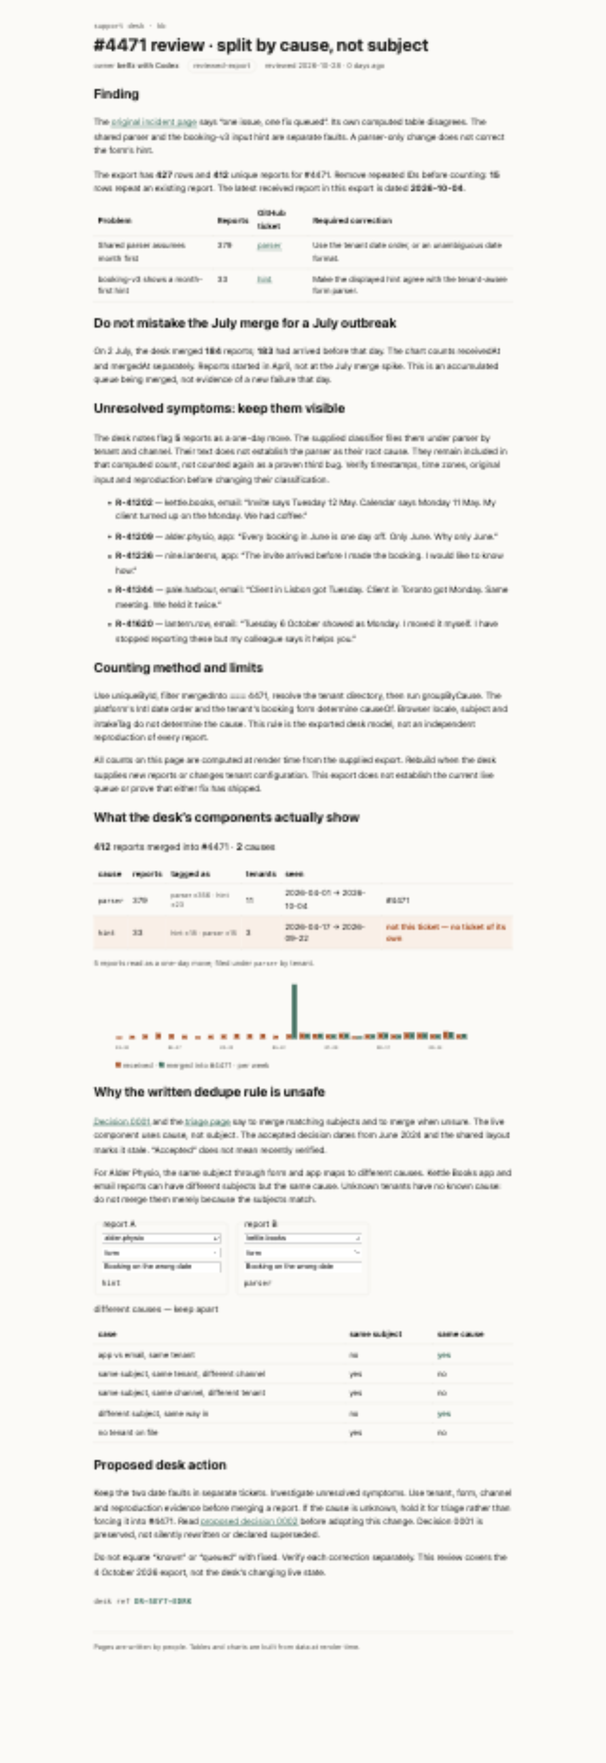
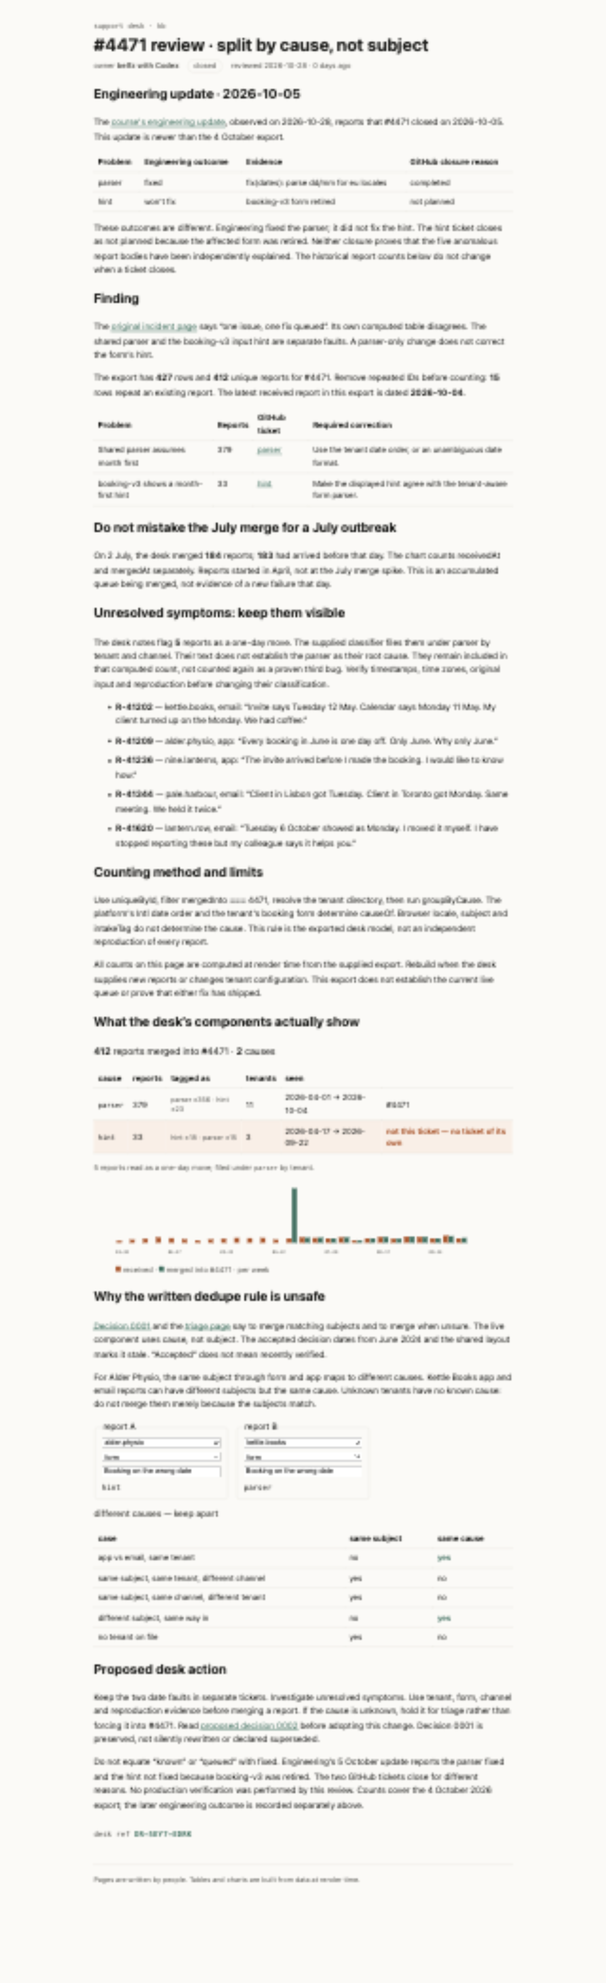
Record engineering outcomes and distinct issue closure reasons

Changed region(s): [[0.1562, 0.0, 0.8438, 0.9656]]

diff --git a/rendered/kb/incidents/4471-review/index.html b/rendered/kb/incidents/4471-review/index.html
@@ -1,6 +1,6 @@
 <!doctype html><html lang="en"><head><meta charset="utf-8"><meta name="viewport" content="width=device-width,initial-scale=1"><!--e2jw2j--><!----><title>#4471 review · split by cause, not subject · support kb</title><style id="svelte-e2jw2j">:root {--bg: #fbfaf7;--fg: #1d1d1b;--muted: #6b6a66;--line: #e3e0d8;--accent: #2f6f5e;--warn: #b4501f;--warn-bg: #fbeee6;--note-bg: #eef5f2;--mono: ui-monospace, 'Cascadia Code', Menlo, monospace;}
   @media (prefers-color-scheme: dark) {:root {--bg: #171716;--fg: #ecebe6;--muted: #9c9a93;--line: #34332f;--accent: #6fbfa6;--warn: #f0905d;--warn-bg: #3a2418;--note-bg: #1d2c27;}
-  }body {margin:0;background:var(--bg);color:var(--fg);font:16px/1.6 system-ui, sans-serif;}.kb table {border-collapse:collapse;width:100%;margin:1rem 0;font-size:0.92rem;}.kb th, .kb td {border-bottom:1px solid var(--line);padding:0.35rem 0.5rem;text-align:left;}.kb code {font-family:var(--mono);font-size:0.88em;}.kb a {color:var(--accent);}.kb.svelte-e2jw2j {max-width:760px;margin:0 auto;padding:2rem 16px 4rem;}.crumb.svelte-e2jw2j {font:0.8rem var(--mono);text-decoration:none;color:var(--muted);}h1.svelte-e2jw2j {margin:0.25rem 0 0.5rem;line-height:1.2;}.meta.svelte-e2jw2j {display:flex;flex-wrap:wrap;gap:0.5rem 1rem;color:var(--muted);font-size:0.85rem;margin:0;}.status.svelte-e2jw2j {border:1px solid var(--line);border-radius:99px;padding:0 0.6rem;}.stale.svelte-e2jw2j {color:var(--warn);font-weight:600;}.banner.svelte-e2jw2j {background:var(--warn-bg);color:var(--warn);padding:0.6rem 1rem;border-radius:6px;}footer.svelte-e2jw2j {margin-top:3rem;color:var(--muted);font-size:0.8rem;border-top:1px solid var(--line);padding-top:1rem;}</style><style id="svelte-1et3mdn">td.svelte-1et3mdn {vertical-align:top;}li.svelte-1et3mdn {margin-bottom:0.65rem;}</style><style id="svelte-12oyimm">.sum.svelte-12oyimm {font-size:1.1rem;}.tags.svelte-12oyimm {color:var(--muted);font-size:0.85em;}.note.svelte-12oyimm {color:var(--muted);font-size:0.85em;}.wrong.svelte-12oyimm td:where(.svelte-12oyimm) {background:var(--warn-bg);}.wrong.svelte-12oyimm td:where(.svelte-12oyimm):last-child {color:var(--warn);font-weight:600;}</style><style id="svelte-18a6qal">svg.svelte-18a6qal {width:100%;max-width:640px;}.in.svelte-18a6qal {fill:var(--warn);}.merged.svelte-18a6qal {fill:var(--accent);}text.svelte-18a6qal {font:8px var(--mono);fill:var(--muted);text-anchor:middle;}figcaption.svelte-18a6qal {color:var(--muted);font-size:0.85rem;}.key.svelte-18a6qal {display:inline-block;width:0.7em;height:0.7em;border-radius:2px;}.key.in.svelte-18a6qal {background:var(--warn);}.key.merged.svelte-18a6qal {background:var(--accent);}</style><style id="svelte-gq0h2h">.try.svelte-gq0h2h {display:grid;grid-template-columns:repeat(auto-fit, minmax(220px, 1fr));gap:0.75rem;margin:1rem 0;}fieldset.svelte-gq0h2h {display:grid;gap:0.4rem;border:1px solid var(--line);border-radius:6px;}.verdict.svelte-gq0h2h {grid-column:1 / -1;margin:0;font-weight:600;color:var(--muted);}.dup.svelte-gq0h2h {color:var(--accent);font-weight:600;}</style><style id="svelte-1280m42">.stamp.svelte-1280m42 {margin:2rem 0 0;font:0.85rem var(--mono);color:var(--muted);}.stamp.svelte-1280m42 b:where(.svelte-1280m42) {color:var(--accent);letter-spacing:0.04em;}.missing.svelte-1280m42 {color:var(--warn);}</style></head><body><!--[--><div class="kb svelte-e2jw2j"><header><a class="crumb svelte-e2jw2j" href="/kb">support desk · kb</a> <h1 class="svelte-e2jw2j">#4471 review · split by cause, not subject</h1> <p class="meta svelte-e2jw2j"><span>owner <b>belfz with Codex</b></span> <span class="status reviewed-export svelte-e2jw2j">reviewed-export</span> <span class="svelte-e2jw2j">reviewed 2026-10-28 · 0 days ago</span></p></header> <!--[-1--><!--]--> <main><h2>Finding</h2> <p>The <a href="/kb/incidents/4471/">original incident page</a> says “one issue, one fix queued”.
+  }body {margin:0;background:var(--bg);color:var(--fg);font:16px/1.6 system-ui, sans-serif;}.kb table {border-collapse:collapse;width:100%;margin:1rem 0;font-size:0.92rem;}.kb th, .kb td {border-bottom:1px solid var(--line);padding:0.35rem 0.5rem;text-align:left;}.kb code {font-family:var(--mono);font-size:0.88em;}.kb a {color:var(--accent);}.kb.svelte-e2jw2j {max-width:760px;margin:0 auto;padding:2rem 16px 4rem;}.crumb.svelte-e2jw2j {font:0.8rem var(--mono);text-decoration:none;color:var(--muted);}h1.svelte-e2jw2j {margin:0.25rem 0 0.5rem;line-height:1.2;}.meta.svelte-e2jw2j {display:flex;flex-wrap:wrap;gap:0.5rem 1rem;color:var(--muted);font-size:0.85rem;margin:0;}.status.svelte-e2jw2j {border:1px solid var(--line);border-radius:99px;padding:0 0.6rem;}.stale.svelte-e2jw2j {color:var(--warn);font-weight:600;}.banner.svelte-e2jw2j {background:var(--warn-bg);color:var(--warn);padding:0.6rem 1rem;border-radius:6px;}footer.svelte-e2jw2j {margin-top:3rem;color:var(--muted);font-size:0.8rem;border-top:1px solid var(--line);padding-top:1rem;}</style><style id="svelte-1et3mdn">td.svelte-1et3mdn {vertical-align:top;}li.svelte-1et3mdn {margin-bottom:0.65rem;}</style><style id="svelte-12oyimm">.sum.svelte-12oyimm {font-size:1.1rem;}.tags.svelte-12oyimm {color:var(--muted);font-size:0.85em;}.note.svelte-12oyimm {color:var(--muted);font-size:0.85em;}.wrong.svelte-12oyimm td:where(.svelte-12oyimm) {background:var(--warn-bg);}.wrong.svelte-12oyimm td:where(.svelte-12oyimm):last-child {color:var(--warn);font-weight:600;}</style><style id="svelte-18a6qal">svg.svelte-18a6qal {width:100%;max-width:640px;}.in.svelte-18a6qal {fill:var(--warn);}.merged.svelte-18a6qal {fill:var(--accent);}text.svelte-18a6qal {font:8px var(--mono);fill:var(--muted);text-anchor:middle;}figcaption.svelte-18a6qal {color:var(--muted);font-size:0.85rem;}.key.svelte-18a6qal {display:inline-block;width:0.7em;height:0.7em;border-radius:2px;}.key.in.svelte-18a6qal {background:var(--warn);}.key.merged.svelte-18a6qal {background:var(--accent);}</style><style id="svelte-gq0h2h">.try.svelte-gq0h2h {display:grid;grid-template-columns:repeat(auto-fit, minmax(220px, 1fr));gap:0.75rem;margin:1rem 0;}fieldset.svelte-gq0h2h {display:grid;gap:0.4rem;border:1px solid var(--line);border-radius:6px;}.verdict.svelte-gq0h2h {grid-column:1 / -1;margin:0;font-weight:600;color:var(--muted);}.dup.svelte-gq0h2h {color:var(--accent);font-weight:600;}</style><style id="svelte-1280m42">.stamp.svelte-1280m42 {margin:2rem 0 0;font:0.85rem var(--mono);color:var(--muted);}.stamp.svelte-1280m42 b:where(.svelte-1280m42) {color:var(--accent);letter-spacing:0.04em;}.missing.svelte-1280m42 {color:var(--warn);}</style></head><body><!--[--><div class="kb svelte-e2jw2j"><header><a class="crumb svelte-e2jw2j" href="/kb">support desk · kb</a> <h1 class="svelte-e2jw2j">#4471 review · split by cause, not subject</h1> <p class="meta svelte-e2jw2j"><span>owner <b>belfz with Codex</b></span> <span class="status closed svelte-e2jw2j">closed</span> <span class="svelte-e2jw2j">reviewed 2026-10-28 · 0 days ago</span></p></header> <!--[-1--><!--]--> <main><h2>Engineering update · 2026-10-05</h2> <p>The <a href="https://hq.mega.dev/challenges/what-it-shows">course's engineering update</a>, observed on 2026-10-28, reports that #4471 closed on 2026-10-05. This update is newer than the 4 October export.</p> <table><thead><tr><th>Problem</th><th>Engineering outcome</th><th>Evidence</th><th>GitHub closure reason</th></tr></thead><tbody><!--[--><tr><td>parser</td><td>fixed</td><td>fix(dates): parse dd/mm for eu locales</td><td>completed</td></tr><tr><td>hint</td><td>won't fix</td><td>booking-v3 form retired</td><td>not planned</td></tr><!--]--></tbody></table> <p>These outcomes are different. Engineering fixed the parser; it did not fix the hint. The hint ticket closes as not planned because the affected form was retired. Neither closure proves that the five anomalous report bodies have been independently explained. The historical report counts below do not change when a ticket closes.</p><!----> <h2>Finding</h2> <p>The <a href="/kb/incidents/4471/">original incident page</a> says “one issue, one fix queued”.
 Its own computed table disagrees. The shared parser and the booking-v3 input hint
 are separate faults. A parser-only change does not correct the form’s hint.</p> <p>The export has <strong>427</strong> rows and <strong>412</strong> unique reports for #4471. Remove repeated IDs before counting: <strong>15</strong> rows repeat an existing report. The latest received report in this export is dated <strong>2026-10-04</strong>.</p> <table><thead><tr><th>Problem</th><th>Reports</th><th>GitHub ticket</th><th>Required correction</th></tr></thead><tbody><!--[--><tr><td class="svelte-1et3mdn">Shared parser assumes month first</td><td class="svelte-1et3mdn">379</td><td class="svelte-1et3mdn"><a href="https://github.com/belfz/mega-s01e03-what-it-shows/issues/1">parser</a></td><td class="svelte-1et3mdn">Use the tenant date order, or an unambiguous date format.</td></tr><tr><td class="svelte-1et3mdn">booking-v3 shows a month-first hint</td><td class="svelte-1et3mdn">33</td><td class="svelte-1et3mdn"><a href="https://github.com/belfz/mega-s01e03-what-it-shows/issues/2">hint</a></td><td class="svelte-1et3mdn">Make the displayed hint agree with the tenant-aware form parser.</td></tr><!--]--></tbody></table> <h2>Do not mistake the July merge for a July outbreak</h2> <p>On 2 July, the desk merged <strong>184</strong> reports; <strong>183</strong> had arrived before that day. The chart counts receivedAt and mergedAt separately. Reports started in April, not at the July merge spike. This is an accumulated queue being merged, not evidence of a new failure that day.</p> <h2>Unresolved symptoms: keep them visible</h2> <p>The desk notes flag <strong>5</strong> reports as a one-day move. The supplied classifier files them under parser by tenant and channel. Their text does not establish the parser as their root cause. They remain included in that computed count, not counted again as a proven third bug. Verify timestamps, time zones, original input and reproduction before changing their classification.</p> <ul><!--[--><li class="svelte-1et3mdn"><strong>R-41202</strong> — kettle.books, email: “Invite says Tuesday 12 May. Calendar says Monday 11 May. My client turned up on the Monday. We had coffee.”</li><li class="svelte-1et3mdn"><strong>R-41209</strong> — alder.physio, app: “Every booking in June is one day off. Only June. Why only June.”</li><li class="svelte-1et3mdn"><strong>R-41236</strong> — nine.lanterns, app: “The invite arrived before I made the booking. I would like to know how.”</li><li class="svelte-1et3mdn"><strong>R-41344</strong> — pale.harbour, email: “Client in Lisbon got Tuesday. Client in Toronto got Monday. Same meeting. We held it twice.”</li><li class="svelte-1et3mdn"><strong>R-41620</strong> — lantern.row, email: “Tuesday 6 October showed as Monday. I moved it myself. I have stopped reporting these but my colleague says it helps you.”</li><!--]--></ul> <h2>Counting method and limits</h2> <p>Use uniqueById, filter mergedInto === 4471, resolve the tenant directory, then run groupByCause. The platform's Intl date order and the tenant's booking form determine causeOf. Browser locale, subject and intakeTag do not determine the cause. This rule is the exported desk model, not an independent reproduction of every report.</p> <p>All counts on this page are computed at render time from the supplied export. Rebuild when the desk supplies new reports or changes tenant configuration. This export does not establish the current live queue or prove that either fix has shipped.</p><!----> <h2>What the desk’s components actually show</h2> <p class="sum svelte-12oyimm"><strong>412</strong> reports merged into #4471 · <strong>2</strong> causes</p> <table><thead><tr><th>cause</th><th>reports</th><th>tagged as</th><th>tenants</th><th>seen</th><th></th></tr></thead><tbody><!--[--><tr class="svelte-12oyimm"><td class="svelte-12oyimm"><code>parser</code></td><td class="svelte-12oyimm">379</td><td class="tags svelte-12oyimm">parser ×356 · hint ×23</td><td class="svelte-12oyimm">11</td><td class="svelte-12oyimm">2026-04-01 → 2026-10-04</td><td class="svelte-12oyimm">#4471</td></tr><tr class="svelte-12oyimm wrong"><td class="svelte-12oyimm"><code>hint</code></td><td class="svelte-12oyimm">33</td><td class="tags svelte-12oyimm">hint ×18 · parser ×15</td><td class="svelte-12oyimm">3</td><td class="svelte-12oyimm">2026-04-17 → 2026-09-22</td><td class="svelte-12oyimm">not this ticket — no ticket of its own</td></tr><!--]--></tbody></table> <!--[--><!--[0--><p class="note svelte-12oyimm">5 reports read as a one-day move; filed under <code>parser</code> by tenant.</p><!--]--><!--[-1--><!--]--><!--]--><!----> <figure><svg viewBox="0 0 648 140" role="img" aria-label="reports received and merged into #4471, per week" class="svelte-18a6qal"><!--[--><rect class="in svelte-18a6qal" x="2" y="106.29629629629629" width="9" height="3.7037037037037033"></rect><rect class="merged svelte-18a6qal" x="12" y="110" width="9" height="0"></rect><!--[0--><text x="12" y="128" class="svelte-18a6qal">03-30</text><!--]--><rect class="in svelte-18a6qal" x="26" y="104.17989417989418" width="9" height="5.82010582010582"></rect><rect class="merged svelte-18a6qal" x="36" y="110" width="9" height="0"></rect><!--[-1--><!--]--><rect class="in svelte-18a6qal" x="50" y="102.5925925925926" width="9" height="7.4074074074074066"></rect><rect class="merged svelte-18a6qal" x="60" y="110" width="9" height="0"></rect><!--[-1--><!--]--><rect class="in svelte-18a6qal" x="74" y="99.94708994708995" width="9" height="10.052910052910052"></rect><rect class="merged svelte-18a6qal" x="84" y="110" width="9" height="0"></rect><!--[-1--><!--]--><rect class="in svelte-18a6qal" x="98" y="101.53439153439153" width="9" height="8.465608465608465"></rect><rect class="merged svelte-18a6qal" x="108" y="110" width="9" height="0"></rect><!--[0--><text x="108" y="128" class="svelte-18a6qal">04-27</text><!--]--><rect class="in svelte-18a6qal" x="122" y="103.65079365079364" width="9" height="6.349206349206349"></rect><rect class="merged svelte-18a6qal" x="132" y="110" width="9" height="0"></rect><!--[-1--><!--]--><rect class="in svelte-18a6qal" x="146" y="105.76719576719577" width="9" height="4.232804232804233"></rect><rect class="merged svelte-18a6qal" x="156" y="110" width="9" height="0"></rect><!--[-1--><!--]--><rect class="in svelte-18a6qal" x="170" y="103.65079365079364" width="9" height="6.349206349206349"></rect><rect class="merged svelte-18a6qal" x="180" y="110" width="9" height="0"></rect><!--[-1--><!--]--><rect class="in svelte-18a6qal" x="194" y="102.5925925925926" width="9" height="7.4074074074074066"></rect><rect class="merged svelte-18a6qal" x="204" y="110" width="9" height="0"></rect><!--[0--><text x="204" y="128" class="svelte-18a6qal">05-25</text><!--]--><rect class="in svelte-18a6qal" x="218" y="101.00529100529101" width="9" height="8.994708994708994"></rect><rect class="merged svelte-18a6qal" x="228" y="110" width="9" height="0"></rect><!--[-1--><!--]--><rect class="in svelte-18a6qal" x="242" y="101.53439153439153" width="9" height="8.465608465608465"></rect><rect class="merged svelte-18a6qal" x="252" y="110" width="9" height="0"></rect><!--[-1--><!--]--><rect class="in svelte-18a6qal" x="266" y="101.00529100529101" width="9" height="8.994708994708994"></rect><rect class="merged svelte-18a6qal" x="276" y="110" width="9" height="0"></rect><!--[-1--><!--]--><rect class="in svelte-18a6qal" x="290" y="104.17989417989418" width="9" height="5.82010582010582"></rect><rect class="merged svelte-18a6qal" x="300" y="110" width="9" height="0"></rect><!--[0--><text x="300" y="128" class="svelte-18a6qal">06-22</text><!--]--><rect class="in svelte-18a6qal" x="314" y="102.06349206349206" width="9" height="7.936507936507936"></rect><rect class="merged svelte-18a6qal" x="324" y="10" width="9" height="100"></rect><!--[-1--><!--]--><rect class="in svelte-18a6qal" x="338" y="99.94708994708995" width="9" height="10.052910052910052"></rect><rect class="merged svelte-18a6qal" x="348" y="100.47619047619048" width="9" height="9.523809523809524"></rect><!--[-1--><!--]--><rect class="in svelte-18a6qal" x="362" y="101.00529100529101" width="9" height="8.994708994708994"></rect><rect class="merged svelte-18a6qal" x="372" y="100.47619047619048" width="9" height="9.523809523809524"></rect><!--[-1--><!--]--><rect class="in svelte-18a6qal" x="386" y="102.06349206349206" width="9" height="7.936507936507936"></rect><rect class="merged svelte-18a6qal" x="396" y="102.06349206349206" width="9" height="7.936507936507936"></rect><!--[0--><text x="396" y="128" class="svelte-18a6qal">07-20</text><!--]--><rect class="in svelte-18a6qal" x="410" y="99.94708994708995" width="9" height="10.052910052910052"></rect><rect class="merged svelte-18a6qal" x="420" y="99.94708994708995" width="9" height="10.052910052910052"></rect><!--[-1--><!--]--><rect class="in svelte-18a6qal" x="434" y="105.76719576719577" width="9" height="4.232804232804233"></rect><rect class="merged svelte-18a6qal" x="444" y="105.76719576719577" width="9" height="4.232804232804233"></rect><!--[-1--><!--]--><rect class="in svelte-18a6qal" x="458" y="102.06349206349206" width="9" height="7.936507936507936"></rect><rect class="merged svelte-18a6qal" x="468" y="102.06349206349206" width="9" height="7.936507936507936"></rect><!--[-1--><!--]--><rect class="in svelte-18a6qal" x="482" y="99.41798941798942" width="9" height="10.582010582010582"></rect><rect class="merged svelte-18a6qal" x="492" y="99.41798941798942" width="9" height="10.582010582010582"></rect><!--[0--><text x="492" y="128" class="svelte-18a6qal">08-17</text><!--]--><rect class="in svelte-18a6qal" x="506" y="102.5925925925926" width="9" height="7.4074074074074066"></rect><rect class="merged svelte-18a6qal" x="516" y="102.5925925925926" width="9" height="7.4074074074074066"></rect><!--[-1--><!--]--><rect class="in svelte-18a6qal" x="530" y="98.88888888888889" width="9" height="11.11111111111111"></rect><rect class="merged svelte-18a6qal" x="540" y="98.88888888888889" width="9" height="11.11111111111111"></rect><!--[-1--><!--]--><rect class="in svelte-18a6qal" x="554" y="99.41798941798942" width="9" height="10.582010582010582"></rect><rect class="merged svelte-18a6qal" x="564" y="99.41798941798942" width="9" height="10.582010582010582"></rect><!--[-1--><!--]--><rect class="in svelte-18a6qal" x="578" y="102.06349206349206" width="9" height="7.936507936507936"></rect><rect class="merged svelte-18a6qal" x="588" y="102.06349206349206" width="9" height="7.936507936507936"></rect><!--[0--><text x="588" y="128" class="svelte-18a6qal">09-14</text><!--]--><rect class="in svelte-18a6qal" x="602" y="96.77248677248677" width="9" height="13.227513227513226"></rect><rect class="merged svelte-18a6qal" x="612" y="97.83068783068784" width="9" height="12.16931216931217"></rect><!--[-1--><!--]--><rect class="in svelte-18a6qal" x="626" y="102.06349206349206" width="9" height="7.936507936507936"></rect><rect class="merged svelte-18a6qal" x="636" y="101.00529100529101" width="9" height="8.994708994708994"></rect><!--[-1--><!--]--><!--]--></svg> <figcaption class="svelte-18a6qal"><span class="key in svelte-18a6qal"></span> received · <span class="key merged svelte-18a6qal"></span> merged into #4471 · per week</figcaption></figure><!----> <h2>Why the written dedupe rule is unsafe</h2> <p><a href="/kb/decisions/0001-dedupe-by-subject/">Decision 0001</a> and the <a href="/kb/triage/dedupe/">triage page</a> say to merge matching subjects and to merge when
 unsure. The live component uses cause, not subject. The accepted decision dates
@@ -11,5 +11,8 @@ Unknown tenants have no known cause: do not merge them merely because the subjec
 Use tenant, form, channel and reproduction evidence before merging a report.
 If the cause is unknown, hold it for triage rather than forcing it into #4471.
 Read <a href="/kb/decisions/0002-dedupe-by-cause/">proposed decision 0002</a> before adopting
-this change. Decision 0001 is preserved, not silently rewritten or declared superseded.</p> <p>Do not equate “known” or “queued” with fixed. Verify each correction separately.
-This review covers the 4 October 2026 export, not the desk’s changing live state.</p> <!--[0--><p class="stamp svelte-1280m42">desk ref <b class="svelte-1280m42">DR-5EY7-EDRK</b></p><!--]--><!----><!----></main> <footer class="svelte-e2jw2j">Pages are written by people. Tables and charts are built from data at render time.</footer></div><!--]--></body></html>
+this change. Decision 0001 is preserved, not silently rewritten or declared superseded.</p> <p>Do not equate “known” or “queued” with fixed. Engineering’s 5 October update
+reports the parser fixed and the hint not fixed because booking-v3 was retired.
+The two GitHub tickets close for different reasons. No production verification
+was performed by this review. Counts cover the 4 October 2026 export; the later
+engineering outcome is recorded separately above.</p> <!--[0--><p class="stamp svelte-1280m42">desk ref <b class="svelte-1280m42">DR-5EY7-EDRK</b></p><!--]--><!----><!----></main> <footer class="svelte-e2jw2j">Pages are written by people. Tables and charts are built from data at render time.</footer></div><!--]--></body></html>

diff --git a/rendered/kb/index.html b/rendered/kb/index.html
@@ -1,4 +1,4 @@
 <!doctype html><html lang="en"><head><meta charset="utf-8"><meta name="viewport" content="width=device-width,initial-scale=1"><!--e2jw2j--><!----><title>Support knowledge base · support kb</title><style id="svelte-e2jw2j">:root {--bg: #fbfaf7;--fg: #1d1d1b;--muted: #6b6a66;--line: #e3e0d8;--accent: #2f6f5e;--warn: #b4501f;--warn-bg: #fbeee6;--note-bg: #eef5f2;--mono: ui-monospace, 'Cascadia Code', Menlo, monospace;}
   @media (prefers-color-scheme: dark) {:root {--bg: #171716;--fg: #ecebe6;--muted: #9c9a93;--line: #34332f;--accent: #6fbfa6;--warn: #f0905d;--warn-bg: #3a2418;--note-bg: #1d2c27;}
-  }body {margin:0;background:var(--bg);color:var(--fg);font:16px/1.6 system-ui, sans-serif;}.kb table {border-collapse:collapse;width:100%;margin:1rem 0;font-size:0.92rem;}.kb th, .kb td {border-bottom:1px solid var(--line);padding:0.35rem 0.5rem;text-align:left;}.kb code {font-family:var(--mono);font-size:0.88em;}.kb a {color:var(--accent);}.kb.svelte-e2jw2j {max-width:760px;margin:0 auto;padding:2rem 16px 4rem;}.crumb.svelte-e2jw2j {font:0.8rem var(--mono);text-decoration:none;color:var(--muted);}h1.svelte-e2jw2j {margin:0.25rem 0 0.5rem;line-height:1.2;}.meta.svelte-e2jw2j {display:flex;flex-wrap:wrap;gap:0.5rem 1rem;color:var(--muted);font-size:0.85rem;margin:0;}.status.svelte-e2jw2j {border:1px solid var(--line);border-radius:99px;padding:0 0.6rem;}.stale.svelte-e2jw2j {color:var(--warn);font-weight:600;}.banner.svelte-e2jw2j {background:var(--warn-bg);color:var(--warn);padding:0.6rem 1rem;border-radius:6px;}footer.svelte-e2jw2j {margin-top:3rem;color:var(--muted);font-size:0.8rem;border-top:1px solid var(--line);padding-top:1rem;}</style><style id="svelte-tbc1ha">.stale.svelte-tbc1ha {color:var(--warn);font-weight:600;}</style></head><body><!--[--><div class="kb svelte-e2jw2j"><header><a class="crumb svelte-e2jw2j" href="/kb">support desk · kb</a> <h1 class="svelte-e2jw2j">Support knowledge base</h1> <p class="meta svelte-e2jw2j"><span>owner <b>support desk</b></span> <span class="status living svelte-e2jw2j">living</span> <span class="svelte-e2jw2j">reviewed 2026-09-28 · 30 days ago</span></p></header> <!--[-1--><!--]--> <main><p>What the support desk knows, kept next to the code that knows it. One desk, every product: <code>sched-prod</code> (calendar invites for about 300k people) and the rest. When something breaks, the reports land here first.</p> <p>Start with <a href="/kb/triage/dedupe">triage</a> if you are new on the desk.</p> <h2>Pages</h2> <table><thead><tr><th>page</th><th>owner</th><th>status</th><th>reviewed</th></tr></thead><tbody><!--[--><tr><td><a href="/kb/decisions/0001-dedupe-by-subject">0001 · Duplicates share a subject line</a></td><td>rune</td><td>accepted</td><td class="svelte-tbc1ha stale">2024-06-11</td></tr><tr><td><a href="/kb/decisions/0002-dedupe-by-cause">0002 · Proposed dedupe by verified cause</a></td><td>belfz with Codex</td><td>proposed</td><td class="svelte-tbc1ha">2026-10-28</td></tr><tr><td><a href="/kb/incidents/4471">#4471 · dates parse mm/dd in eu locales</a></td><td>support desk</td><td>known</td><td class="svelte-tbc1ha">2026-09-30</td></tr><tr><td><a href="/kb/incidents/4471-review">#4471 review · split by cause, not subject</a></td><td>belfz with Codex</td><td>reviewed-export</td><td class="svelte-tbc1ha">2026-10-28</td></tr><tr><td><a href="/kb/triage/dedupe">Triage: duplicate reports</a></td><td>support desk</td><td>accepted</td><td class="svelte-tbc1ha stale">2024-06-11</td></tr><!--]--></tbody></table><!----> <h2>Writing a page</h2> <p>Keep the words here and the logic in <code>src/lib</code>. A number that can be computed should be
+  }body {margin:0;background:var(--bg);color:var(--fg);font:16px/1.6 system-ui, sans-serif;}.kb table {border-collapse:collapse;width:100%;margin:1rem 0;font-size:0.92rem;}.kb th, .kb td {border-bottom:1px solid var(--line);padding:0.35rem 0.5rem;text-align:left;}.kb code {font-family:var(--mono);font-size:0.88em;}.kb a {color:var(--accent);}.kb.svelte-e2jw2j {max-width:760px;margin:0 auto;padding:2rem 16px 4rem;}.crumb.svelte-e2jw2j {font:0.8rem var(--mono);text-decoration:none;color:var(--muted);}h1.svelte-e2jw2j {margin:0.25rem 0 0.5rem;line-height:1.2;}.meta.svelte-e2jw2j {display:flex;flex-wrap:wrap;gap:0.5rem 1rem;color:var(--muted);font-size:0.85rem;margin:0;}.status.svelte-e2jw2j {border:1px solid var(--line);border-radius:99px;padding:0 0.6rem;}.stale.svelte-e2jw2j {color:var(--warn);font-weight:600;}.banner.svelte-e2jw2j {background:var(--warn-bg);color:var(--warn);padding:0.6rem 1rem;border-radius:6px;}footer.svelte-e2jw2j {margin-top:3rem;color:var(--muted);font-size:0.8rem;border-top:1px solid var(--line);padding-top:1rem;}</style><style id="svelte-tbc1ha">.stale.svelte-tbc1ha {color:var(--warn);font-weight:600;}</style></head><body><!--[--><div class="kb svelte-e2jw2j"><header><a class="crumb svelte-e2jw2j" href="/kb">support desk · kb</a> <h1 class="svelte-e2jw2j">Support knowledge base</h1> <p class="meta svelte-e2jw2j"><span>owner <b>support desk</b></span> <span class="status living svelte-e2jw2j">living</span> <span class="svelte-e2jw2j">reviewed 2026-09-28 · 30 days ago</span></p></header> <!--[-1--><!--]--> <main><p>What the support desk knows, kept next to the code that knows it. One desk, every product: <code>sched-prod</code> (calendar invites for about 300k people) and the rest. When something breaks, the reports land here first.</p> <p>Start with <a href="/kb/triage/dedupe">triage</a> if you are new on the desk.</p> <h2>Pages</h2> <table><thead><tr><th>page</th><th>owner</th><th>status</th><th>reviewed</th></tr></thead><tbody><!--[--><tr><td><a href="/kb/decisions/0001-dedupe-by-subject">0001 · Duplicates share a subject line</a></td><td>rune</td><td>accepted</td><td class="svelte-tbc1ha stale">2024-06-11</td></tr><tr><td><a href="/kb/decisions/0002-dedupe-by-cause">0002 · Proposed dedupe by verified cause</a></td><td>belfz with Codex</td><td>proposed</td><td class="svelte-tbc1ha">2026-10-28</td></tr><tr><td><a href="/kb/incidents/4471">#4471 · dates parse mm/dd in eu locales</a></td><td>support desk</td><td>known</td><td class="svelte-tbc1ha">2026-09-30</td></tr><tr><td><a href="/kb/incidents/4471-review">#4471 review · split by cause, not subject</a></td><td>belfz with Codex</td><td>closed</td><td class="svelte-tbc1ha">2026-10-28</td></tr><tr><td><a href="/kb/triage/dedupe">Triage: duplicate reports</a></td><td>support desk</td><td>accepted</td><td class="svelte-tbc1ha stale">2024-06-11</td></tr><!--]--></tbody></table><!----> <h2>Writing a page</h2> <p>Keep the words here and the logic in <code>src/lib</code>. A number that can be computed should be
 computed by a component, not typed into a paragraph.</p><!----></main> <footer class="svelte-e2jw2j">Pages are written by people. Tables and charts are built from data at render time.</footer></div><!--]--></body></html>

diff --git a/src/lib/kb/EngineeringUpdate.svelte b/src/lib/kb/EngineeringUpdate.svelte
@@ -1,0 +1,15 @@
+<script lang="ts">
+  import update from '#lib/data/engineering-update.json';
+</script>
+
+<h2>Engineering update · {update.closedOn}</h2>
+<p>The <a href={update.source}>course's engineering update</a>, observed on {update.observedOn}, reports that #{update.ticket} closed on {update.closedOn}. This update is newer than the 4 October export.</p>
+<table>
+  <thead><tr><th>Problem</th><th>Engineering outcome</th><th>Evidence</th><th>GitHub closure reason</th></tr></thead>
+  <tbody>
+    {#each Object.entries(update.outcomes) as [cause, outcome] (cause)}
+      <tr><td>{cause}</td><td>{outcome.status}</td><td>{outcome.detail}</td><td>{outcome.closureReason}</td></tr>
+    {/each}
+  </tbody>
+</table>
+<p>These outcomes are different. Engineering fixed the parser; it did not fix the hint. The hint ticket closes as not planned because the affected form was retired. Neither closure proves that the five anomalous report bodies have been independently explained. The historical report counts below do not change when a ticket closes.</p>

diff --git a/CHALLENGE.md b/CHALLENGE.md
@@ -46,7 +46,14 @@ component from its exact course-issued frontmatter signature.
 
 ## Limits
 
-The export is dated 4 October 2026. The desk can change after that date.
+The export is dated 4 October 2026. The course later disclosed an engineering
+update: #4471 closed on 5 October. The parser was fixed; the hint was not fixed
+because booking-v3 was retired. Issue #1 closes as completed and issue #2 as
+not planned. The signed review records both outcomes separately from the
+historical counts. The exact reported outcomes are preserved in
+`src/lib/data/engineering-update.json`; this is not a claim of independent
+production verification.
+
 Five anomalous report bodies are retained and explicitly unresolved; their
 tenant/channel classification alone does not establish a reproduced cause.
 The July merge spike is distinguished from the earlier report arrivals.
